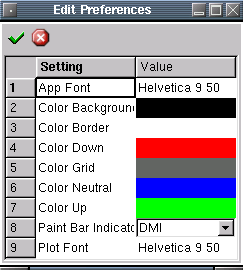
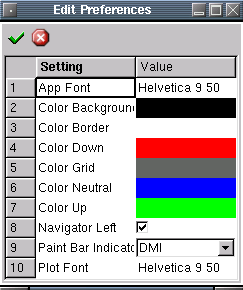
*** empty log message ***

diff --git a/docs/preferences.html b/docs/preferences.html
@@ -25,15 +25,18 @@ edit are:</p>
   <li>Color Neutral - Any no change day bars located on the main chart.</li>
   <li>Color Border - Color used for drawing text, ticks, lines and
 specific areas on a chart eg. date area</li>
+  <li>Navigator Left - Chart navigator appears on the left side if
+true, right side if false. Default is left side (true).<br>
+  </li>
   <li>Paint Bar Indicator - Used only for the paint bar chart type. In
 order to plot, you must select an active indicator from the list,
-otherwise the     plot will be neutral.</li>
+otherwise the plot will be neutral.</li>
   <li>Plot Font - Font used for the charts.<br>
   </li>
 </ul>
 <p></p>
 <p><img src="preferences.png" title="" alt=""
- style="width: 243px; height: 270px;"><br>
+ style="width: 243px; height: 290px;"><br>
 </p>
 <p></p>
 <p></p>

diff --git a/src/IndicatorPlugin.cpp b/src/IndicatorPlugin.cpp
@@ -335,42 +335,3 @@ PlotLine * IndicatorPlugin::getIndicatorLine (int d)
     return 0;
 }
 
-/*
-long IndicatorPlugin::getColorNumber (QString d)
-{
-  QColor color(d);
-  QString s;
-
-  int v = color.red();
-  if (v < 10)
-    s.append("00");
-  else
-  {
-    if (v < 100)
-      s.append("0");
-  }
-  s.append(QString::number(color.red()));
-
-  v = color.green();
-  if (v < 10)
-    s.append("00");
-  else
-  {
-    if (v < 100)
-      s.append("0");
-  }
-  s.append(QString::number(color.green()));
-
-  v = color.blue();
-  if (v < 10)
-    s.append("00");
-  else
-  {
-    if (v < 100)
-      s.append("0");
-  }
-  s.append(QString::number(color.blue()));
-
-  return s.toLong();
-}
-*/

diff --git a/src/IndicatorPlugin.h b/src/IndicatorPlugin.h
@@ -38,7 +38,6 @@ class IndicatorPlugin : public Plugin
     QList<QColor> getColorBars (QString, QString, QString);
     void setIndicatorInput (QList<Setting> *);
     int getIndicatorLines ();
-//    long getColorNumber (QString);
     PlotLine * getIndicatorLine (int);
     PlotLine * getInput (QString);
     PlotLine * getMA (PlotLine *, QString, int);
